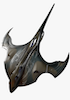
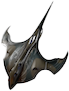
update proj

Changed region(s): [[0.0, 0.022, 1.0, 0.989]]

diff --git a/01-training-shooting-game/src/application/view/ViewManager.java b/01-training-shooting-game/src/application/view/ViewManager.java
@@ -8,6 +8,7 @@ import application.model.ShipPicker;
 import application.model.ShootingButton;
 import application.model.ShootingSubScene;
 import javafx.application.Platform;
+import javafx.geometry.Pos;
 import javafx.scene.Node;
 import javafx.scene.Scene;
 import javafx.scene.control.Button;
@@ -31,10 +32,12 @@ public class ViewManager {
 	private ShootingSubScene shipHelpScene;
 	private ShootingSubScene isHiddenScene;
 
-	private static final int button_x = 50, button_y = 150;
+	private static final int button_x = 50, button_y = 200;
 
 	private static final String bg_img = "application/view/images/background.jpg";
-	private static final String lb_img = "application/view/images/label_2.png";
+	private static final String lb_img = "application/view/images/label_1.png";
+	private static final String lb_img2 = "application/view/images/label_2.png";
+	
 	private static List<ShipPicker>list;
 	private SHIP ship;
 
@@ -45,7 +48,7 @@ public class ViewManager {
 	public ViewManager() {
 		mainStage = new Stage();
 		mainPane = new AnchorPane();
-		mainScene = new Scene(mainPane, 800, 600);
+		mainScene = new Scene(mainPane, 800, 550);
 		mainStage.setScene(mainScene);
 		mainPane.setBackground(new Background(createBrackground(bg_img)));
 		createButton();
@@ -55,9 +58,11 @@ public class ViewManager {
 
 	private void createLogo() {
 		Label logo = new Label("SHIP SHOOTING GAME !");
-		logo.setStyle("-fx-text-fill:white;-fx-font-size:40px;");
-		logo.setLayoutX(300);
-		logo.setLayoutY(20);
+		logo.setPrefSize(500, 83);
+		logo.setAlignment(Pos.CENTER);
+		logo.setStyle("-fx-text-fill:white;-fx-font-size:30px;");
+		logo.setLayoutX(220);
+		logo.setLayoutY(30);
 		logo.setBackground(new Background(createBrackground(lb_img)));
 		mainPane.getChildren().add(logo);
 	}
@@ -77,7 +82,7 @@ public class ViewManager {
 
 	private void addMenuButton(ShootingButton button, int i) {
 		button.setLayoutX(button_x);
-		button.setLayoutY(button_y + i * 70);
+		button.setLayoutY(button_y + i * 60);
 		mainPane.getChildren().add(button);
 
 		button.setOnAction(e -> getActionButton(button.getText()));
@@ -107,9 +112,12 @@ public class ViewManager {
 
 	private void createShipChooser(ShootingSubScene ss) {
 		Label lb = new Label("CHOOSE YOUR SHIP !");
-		lb.setLayoutX(180);
-		lb.setLayoutY(50);
-
+		lb.setStyle("-fx-text-fill:white;-fx-font-size:20px;");
+		lb.setPrefSize(300, 80);
+		lb.setAlignment(Pos.CENTER);
+		lb.setLayoutX(100);
+		lb.setLayoutY(10);
+		lb.setBackground(new Background(createBrackground(lb_img2)));
 		ss.getPane().getChildren().addAll(lb, createSelectShip(), createStartButton());
 	}
 
@@ -147,7 +155,7 @@ public class ViewManager {
 			});
 		}
 		hb.setLayoutX(130);
-		hb.setLayoutY(100);
+		hb.setLayoutY(120);
 		return hb;
 	}
 
@@ -173,7 +181,7 @@ public class ViewManager {
 	}
 
 	/* ----------create background to anchor pane ---- */
-	private BackgroundImage createBrackground(String img_path) {
+	public static BackgroundImage createBrackground(String img_path) {
 		Image img = new Image(img_path);
 		BackgroundImage bg = new BackgroundImage(img, BackgroundRepeat.ROUND, BackgroundRepeat.NO_REPEAT,
 				BackgroundPosition.DEFAULT, null);

diff --git a/01-training-shooting-game/src/application/model/ShootingSubScene.java b/01-training-shooting-game/src/application/model/ShootingSubScene.java
@@ -1,38 +1,52 @@
 package application.model;
 
+import java.awt.MultipleGradientPaint.CycleMethod;
+
+import application.view.ViewManager;
 import javafx.animation.TranslateTransition;
 import javafx.scene.SubScene;
 import javafx.scene.layout.AnchorPane;
+import javafx.scene.layout.Background;
+import javafx.scene.paint.Color;
+import javafx.scene.paint.RadialGradient;
+import javafx.scene.paint.Stop;
 import javafx.util.Duration;
 
 public class ShootingSubScene extends SubScene {
-	
-	private boolean isHidden;
-	
-	private static AnchorPane sub=new AnchorPane();
-	
 
+	private boolean isHidden;
+
+	private static String sub_bg="application/view/images/sub_bg2.png";
+	
 	public ShootingSubScene() {
-		super(sub, 550, 350);
-		isHidden=true;
+		super(new AnchorPane(), 500, 350);
+		AnchorPane pane=getPane();
+		pane.setBackground(new Background(ViewManager.createBrackground(sub_bg)));
+		pane.setStyle("-fx-background-color: linear-gradient(#686868 0%, #232723 25%, #373837 75%, #757575 100%); -fx-background-insets: 0;-fx-background-radius:30px;-fx-border-radius:30px;");
 		setLayoutX(800);
-		setLayoutY(100);
+		setLayoutY(150);
+		isHidden = true;
 		
 	}
 
-
 	public void moveScene() {
-		TranslateTransition tr=new TranslateTransition();
+		TranslateTransition tr = new TranslateTransition();
 		tr.setDuration(Duration.seconds(1));
 		tr.setNode(this);
-		tr.setToX(-500);
+		
+		if (isHidden) {
+			tr.setToX(-570);
+			isHidden = false;
+		} else {
+			tr.setToX(0);
+			isHidden = true;
+		}
 		tr.play();
 	}
 
-
 	public AnchorPane getPane() {
-		return sub;
-		
+		return (AnchorPane) this.getRoot();
+
 	}
 
 }

diff --git a/01-training-shooting-game/src/application/model/ShipPicker.java b/01-training-shooting-game/src/application/model/ShipPicker.java
@@ -17,6 +17,7 @@ public class ShipPicker extends VBox{
 	public ShipPicker(SHIP ship) {
 		circleImg=new ImageView(new Image(notChoosenImg));
 		shipImg=new ImageView(new Image(ship.getUrl()));
+		shipImg.setRotate(180);
 		this.ship=ship;
 		isChoose=false;
 		this.getChildren().addAll(circleImg,shipImg);
